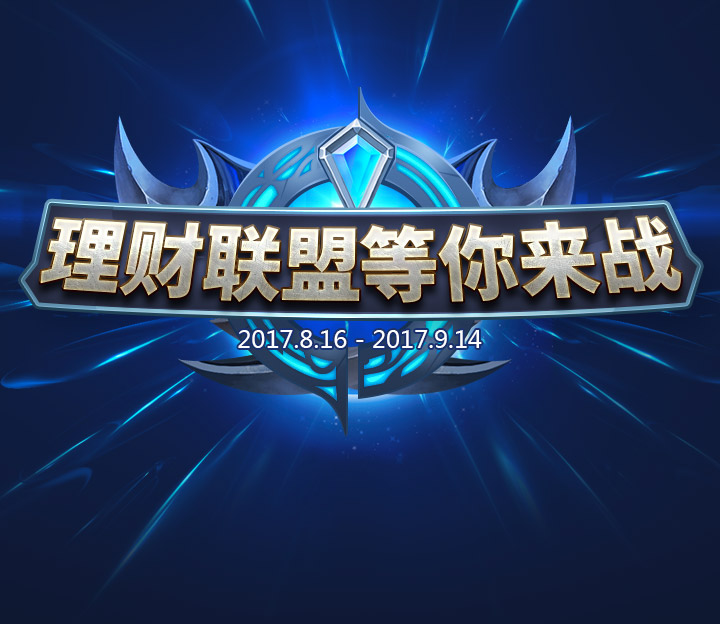
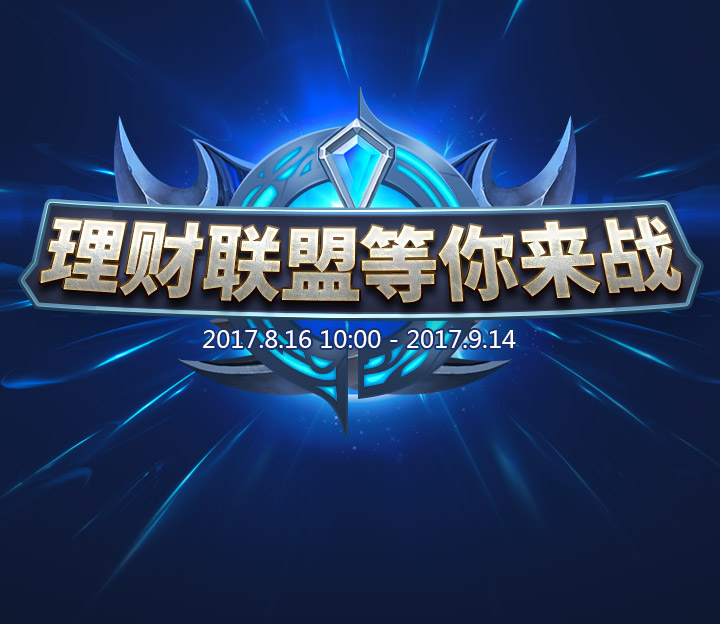
fix

Changed region(s): [[0.275, 0.5176, 0.7333, 0.5785]]

diff --git a/apps/activity/lib/components/pop-start.js b/apps/activity/lib/components/pop-start.js
@@ -10,7 +10,7 @@ class PopStartPC extends React.Component {
     }
     componentDidMount() {
         let timestamp = this.props.timestamp;//当前时间
-        let now = 1502848800000 ;//活动开启时间2017年8月16日10:00 1502848800000
+        let now = 1602848800000 ;//活动开启时间2017年8月16日10:00 1502848800000
         if (timestamp > now) {
             this.setState({ start: false })
         } else {
@@ -25,10 +25,10 @@ class PopStartPC extends React.Component {
         return <div styleName="popStartPC" style={{ display: start ? 'block' : 'none' }}>
             <div styleName="popStartPanelPC">
                 <div styleName="titlePC">活动暂未开启</div>
-                <p>活动时间：2017.8.16 - 2017.9.14</p>
-                <p>客服电话：</p>
-                <p>400-0322-988</p>
-                <p>010-65255966</p>
+                <div styleName="text">活动时间：2017.8.16 10:00 - 2017.9.14</div>
+                <div styleName="text">客服电话：</div>
+                <div styleName="text">400-0322-988</div>
+                <div styleName="text">010-65255966</div>
             </div>
         </div>
     }
@@ -44,7 +44,7 @@ class PopStartMobile extends React.Component {
     }
     componentDidMount() {
         let timestamp = this.props.timestamp;//当前时间
-        let now = 1502848800000;//活动开启时间2017年8月16日10:00 1502848800000
+        let now = 1602848800000;//活动开启时间2017年8月16日10:00 1502848800000
         
         if (timestamp > now) {
             this.setState({ start: false })
@@ -57,10 +57,10 @@ class PopStartMobile extends React.Component {
         return <div styleName="popStartMobile" style={{ display: start ? 'block' : 'none' }}>
             <div styleName="popStartPanelMobile">
                 <div styleName="titleMobile">活动暂未开启</div>
-                <p>活动时间：2017.8.16 - 2017.9.14</p>
-                <p>客服电话：</p>
-                <p>400-0322-988</p>
-                <p>010-65255966</p>
+                <div styleName="text">活动时间：2017.8.16 10:00 - 2017.9.14</div>
+                <div styleName="text">客服电话：</div>
+                <div styleName="text">400-0322-988</div>
+                <div styleName="text">010-65255966</div>
             </div>
         </div>
     }

diff --git a/apps/activity/2017-08-16/css/mobile.css b/apps/activity/2017-08-16/css/mobile.css
@@ -3,6 +3,7 @@
     height: 100%;
     background: #10172d;
     overflow-x: hidden;
+    font-family: "Microsoft YaHei"
 }
 .banner{
     height: 626px;
@@ -59,6 +60,7 @@
     font-size: 22px;
     text-align: center;
     margin: 80px 0 0; 
+    padding: 0 30px;
 }
 .coupon{
     width: 307px;
@@ -82,7 +84,7 @@
     margin: 60px auto 20px;
     text-align: left;
     color: #fff;
-    font-size: 22px;
+    font-size: 22px; 
     line-height: 36px;
     padding: 0 30px;
 }
@@ -94,6 +96,7 @@
     position: relative;
     color: #fff;
     font-size: 22px;
+    font-weight: bold;
 }
 .futureleft{
     position: absolute;
@@ -102,12 +105,14 @@
     color: #884332;
     width: 98px;
     text-align: center;
+    font-size: 22px;
 }
 .futureRight{
     position: absolute;
     top: 84px;
     right: 68px;
     color: #884332;
+    font-size: 22px;
 }
 .investTop{
     position: absolute;
@@ -181,7 +186,7 @@
 .tenTitle{
     width: 498px;
     height: 155px;
-    margin: 120px auto 0;
+    margin: 120px auto 20px;
     background: url('../images/mobile/tenTitle.png') no-repeat;
 }
 .topTen{
@@ -244,7 +249,7 @@
     font-size: 22px;
 }
 .ladder tr:nth-child(2n+1){
-    background: #2f405e;
+    background: rgba(47, 64, 94, 0.5)
 }
 .ladder .icon{
     display: block;
@@ -273,6 +278,12 @@
     height: 42px;
     background: url('../images/mobile/tong.png') no-repeat;
     color: transparent;
+}
+.ladder .rank{
+    color: #41a5e5;
+}
+.ladder .rank span{
+    color: #a0b9d9;
 }
 .ladder .rankAmt{
     color: #41a5e5;

diff --git a/apps/activity/2017-08-16/components/mobile.js b/apps/activity/2017-08-16/components/mobile.js
@@ -72,9 +72,9 @@ class Mobile extends React.Component {
                     <td styleName={`icon icon-${index}`}>{index+1}</td>
                     <td >{item.realName}</td>
                     <td >{item.uCount}</td>
-                    <td styleName="rank" style={{"lineHeight":item.yearAmtDe?"24px":"0px"}}>
-                        {item.yearAmtSum}<br/>
-                        <span>{item.yearAmtDe && `( 含等额标${item.yearAmtDe} )`}</span>
+                    <td styleName="rank" style={{"lineHeight":item.yearAmtDe > 0?"24px":"0px"}}>
+                        {item.yearAmtSum}
+                        <span>{item.yearAmtDe > 0 && `( 含等额标${item.yearAmtDe} )`}</span>
                     </td>
                     <td styleName="rankAmt">{item.isValid}</td>
                 </tr>
@@ -154,8 +154,6 @@ class Mobile extends React.Component {
             </div>
             <div styleName="topTen">
                 <div styleName="tenTitle"></div>
-                <div styleName="topExplain">活动期间，平台累投年化金额达标，团队累计年化投资额≥200万且团队人数≥2人，排名前10的用户，将按照其累计投资金额
-占比进行不同级别的奖金分配。累计金额越多获得的奖金就越多</div>
                 <div styleName="ladder">
                     {ladderData && ladderData.length > 0 ? ladder():empty}
                 </div>

diff --git a/apps/activity/lib/css/pop-start.css b/apps/activity/lib/css/pop-start.css
@@ -24,10 +24,10 @@
     color: #913e30;
     margin: 140px 0 30px 0;
 }
-.popStartPanelPC p{
+.popStartPanelPC .text{
     font-size: 18px;
     color: #913e30;
-    width: 286px;
+    width: 350px;
     text-align: left;
     margin: auto;
     line-height: 30px;
@@ -58,9 +58,9 @@
     font-size: 36px;
     margin: 130px 0 30px 0;
 }
-.popStartPanelMobile p{
+.popStartPanelMobile .text{
     font-size: 22px;
-    width: 360px;
+    width: 420px;
     text-align: left;
     margin: auto;
     line-height: 36px;

diff --git a/apps/activity/2017-08-16/index.html b/apps/activity/2017-08-16/index.html
@@ -3,5 +3,5 @@
 {% block title %}理财联盟，等你来战！- 金融工场 - 安全、专业、透明的综合性金融服务平台{% endblock %}
 
 {% block base_tag %}
-<base href="https://www.gongchangp2p.com/static/activity/2017-08-16/"/>
+<!-- <base href="https://www.gongchangp2p.com/static/activity/2017-08-16/"/> -->
 {% endblock %}

diff --git a/apps/activity/2017-08-16/css/pc.css b/apps/activity/2017-08-16/css/pc.css
@@ -3,6 +3,7 @@
     height: 100%;
     background: #10172d;
     position: relative;
+    font-family: "Microsoft YaHei"
 }
 .banner{
     height: 604px;
@@ -86,6 +87,7 @@
     background: url('../images/pc/future0.png') no-repeat;
     position: relative;
     color: #fff;
+    font-weight: bold;
 }
 .futureleft{
     position: absolute;
